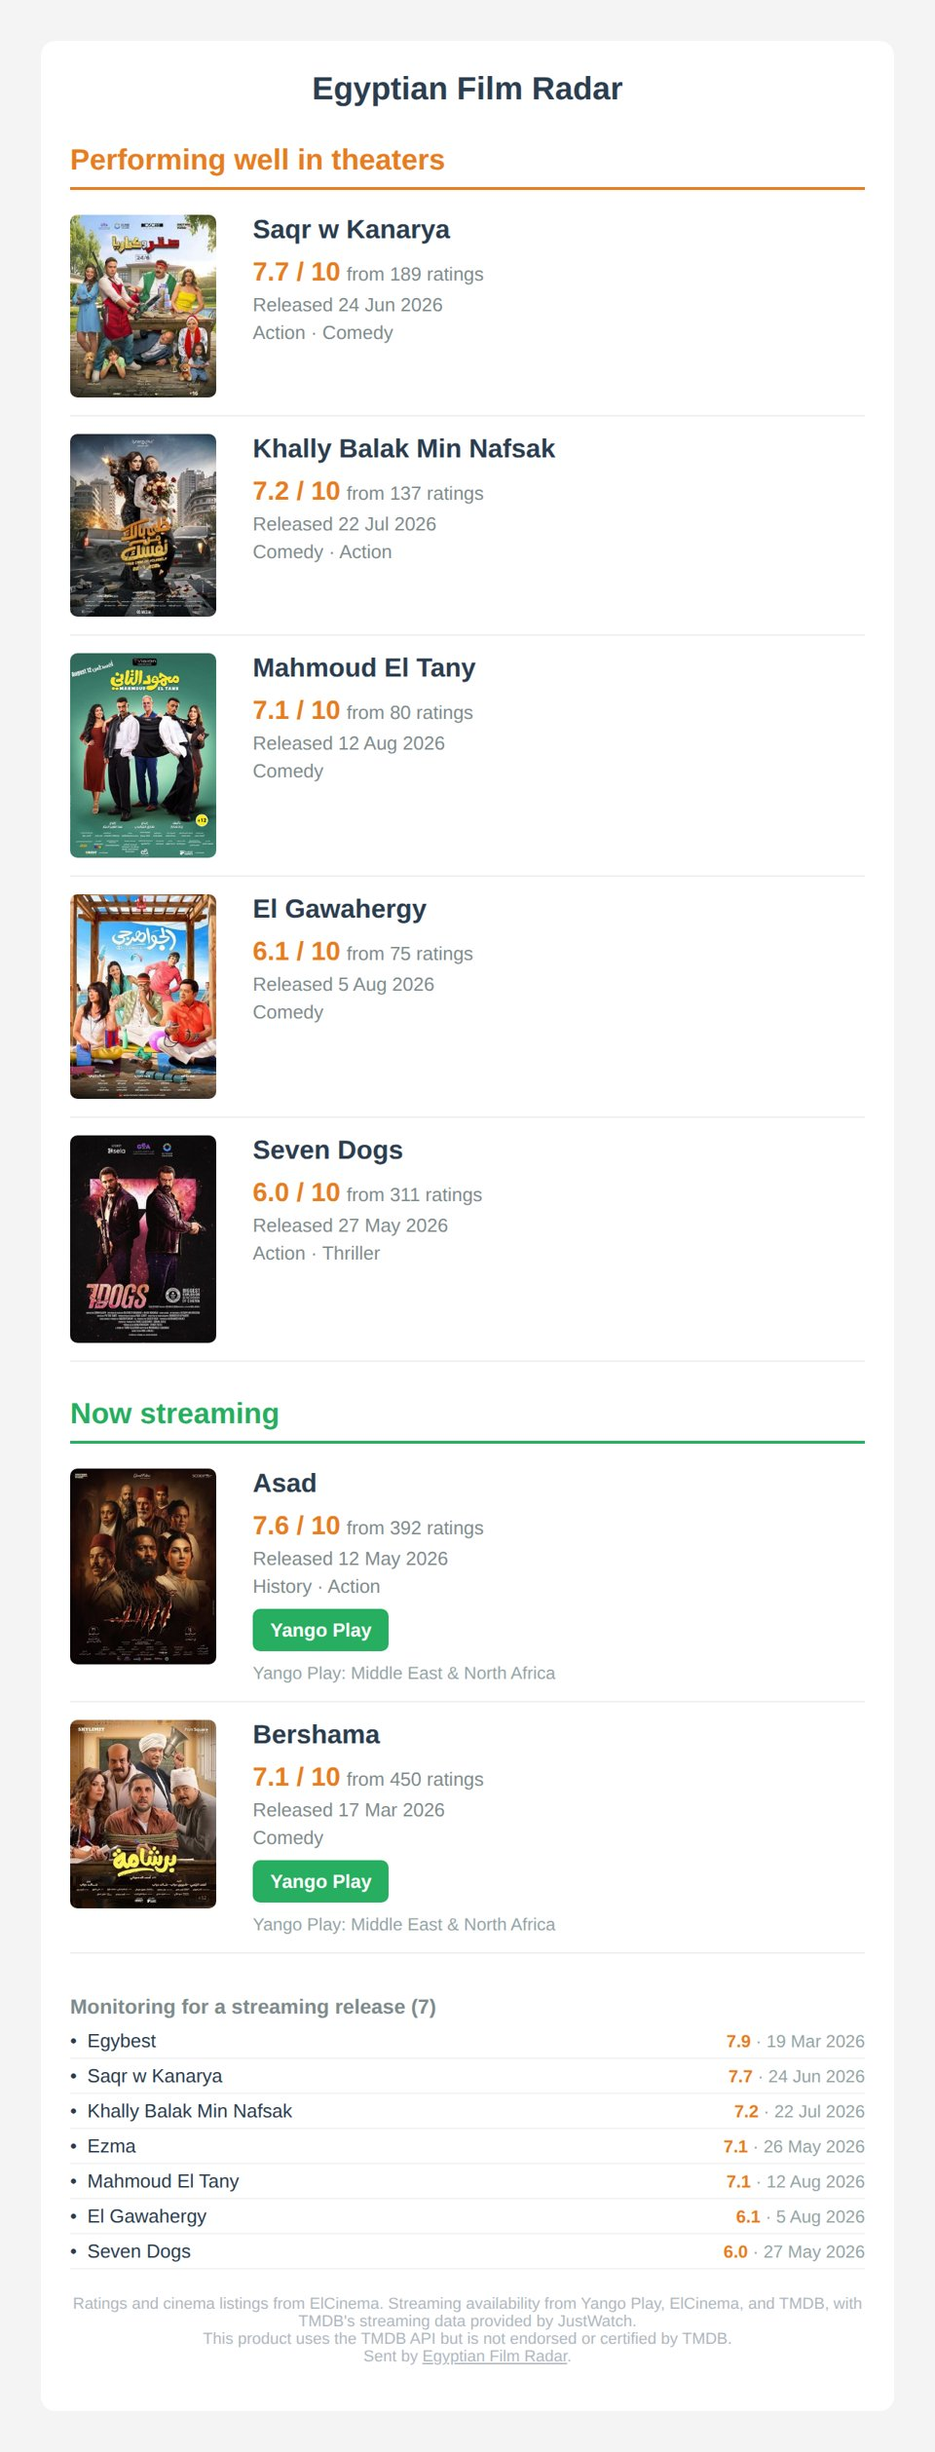
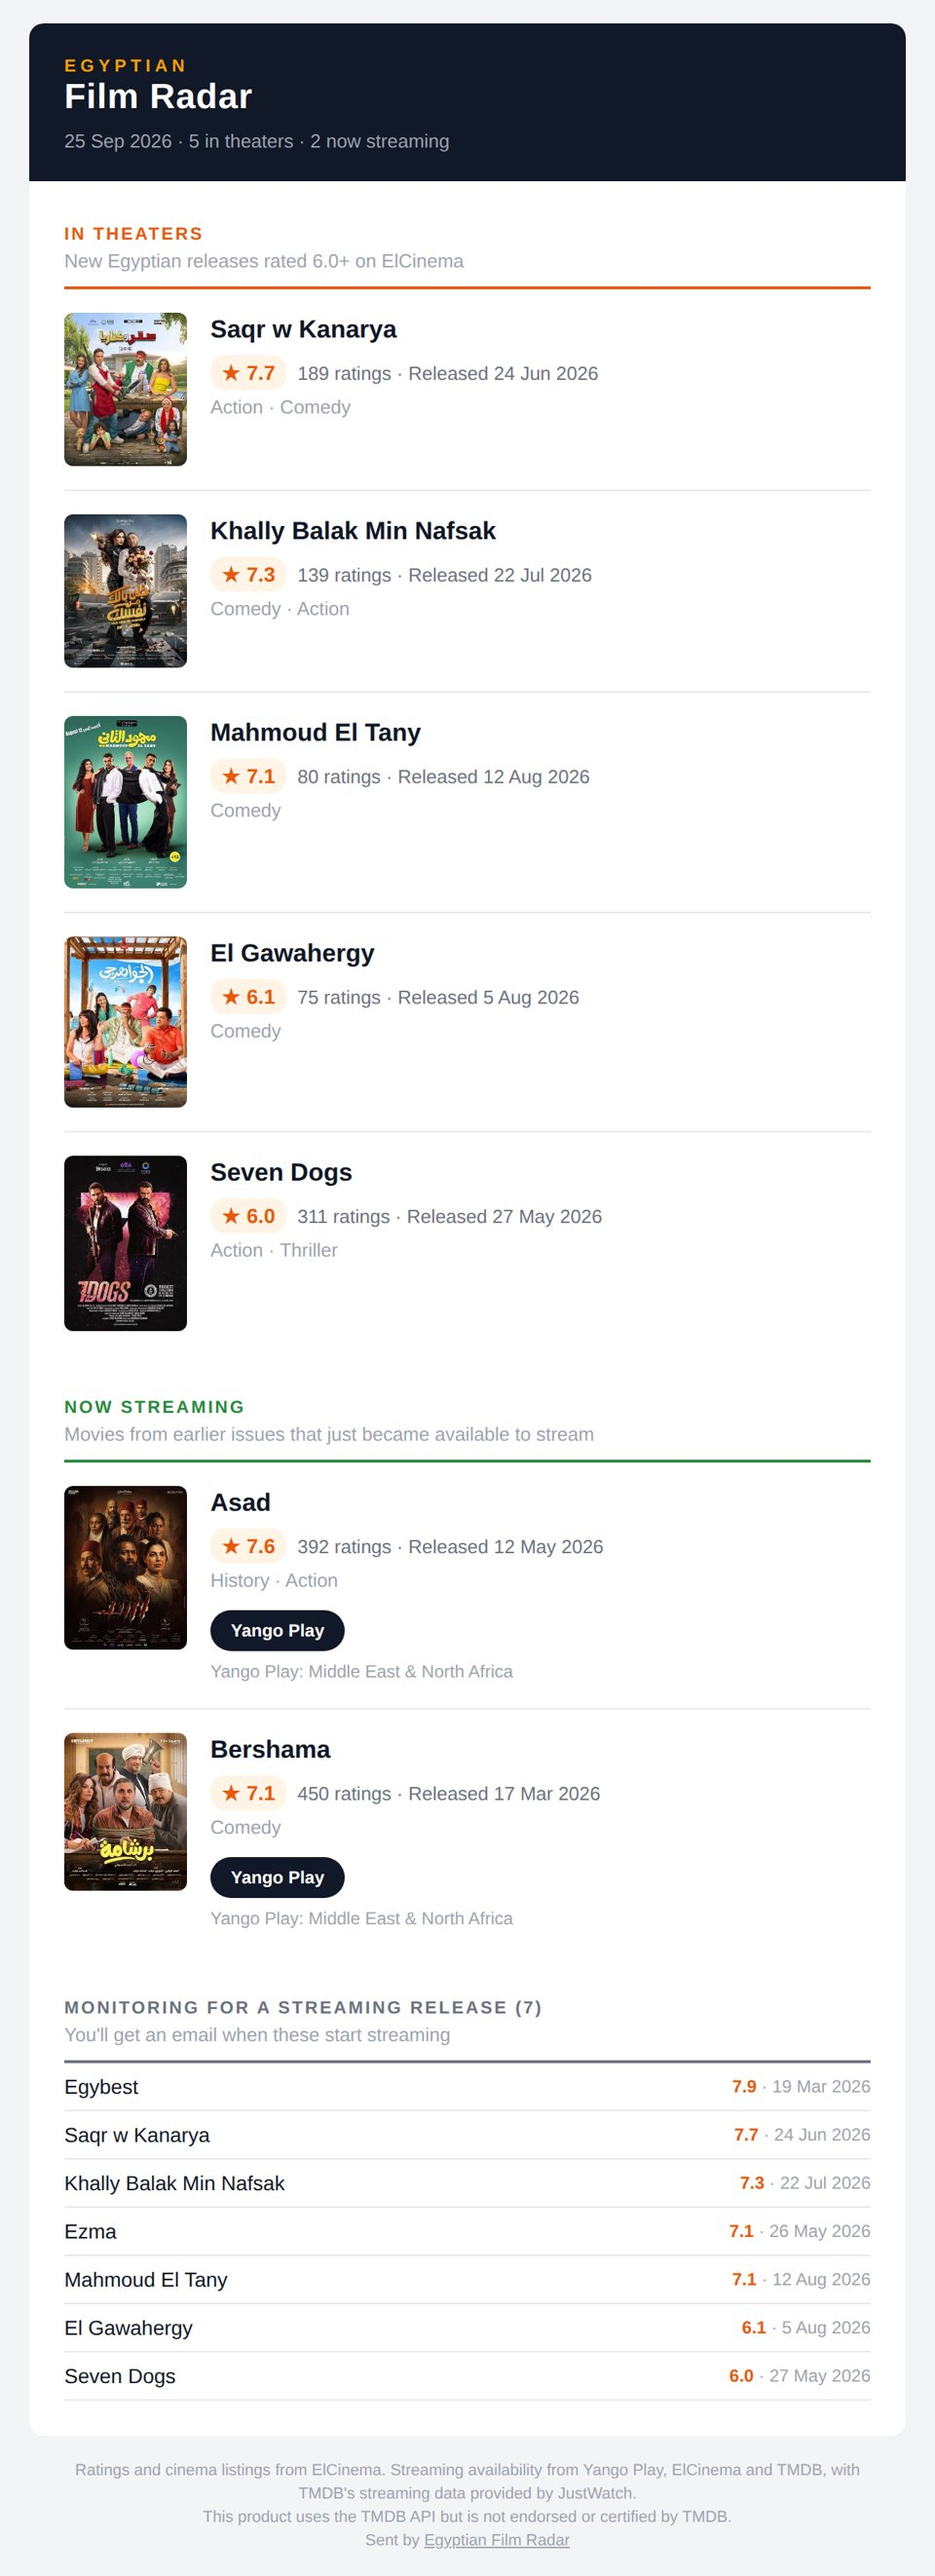
Update README screenshot
Bump version to 1.3.3

Changed region(s): [[0.0312, 0.0, 0.9688, 0.9917]]

diff --git a/newsletter.py b/newsletter.py
@@ -88,7 +88,7 @@ def env_number(name, default, kind=float):
         return default
 
 
-VERSION = "1.3.2"
+VERSION = "1.3.3"
 PROJECT_URL = "https://github.com/YoussefElnaka/egyptian-film-radar"
 
 EMAIL_ADDRESS = os.environ.get("EMAIL_ADDRESS")
@@ -623,6 +623,8 @@ def run_checks(state, yango_index, tmdb):
 
         # Keep the latest rating for the email's monitoring list
         item["rating"], item["votes"] = info["rating"], info["votes"]
+        if info.get("title") and item["title"].startswith("ElCinema #"):
+            item["title"] = info["title"]  # Placeholder from TEST_WATCHLIST, use the real name
         add_extras(info, item)
 
         # Source 1: ElCinema's own VOD Guide, already in info["platforms"]
